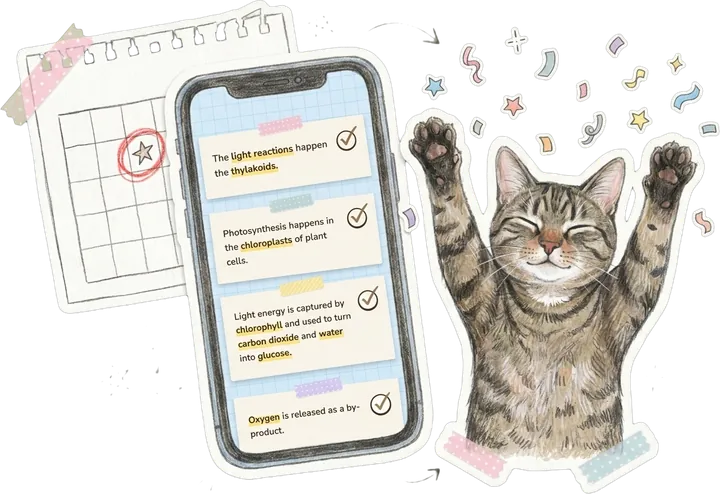
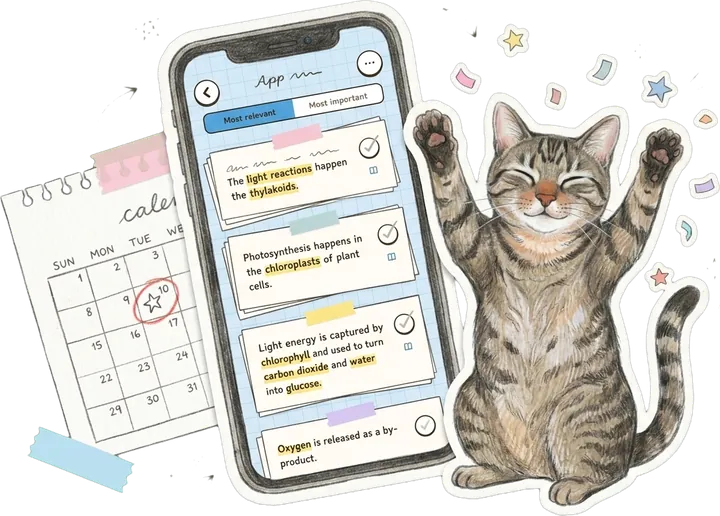
Study assistant: redraw guide pictures with Biggu's real chin and throat colors

diff --git a/apps/study-assistant/docs/progress/20261007.md b/apps/study-assistant/docs/progress/20261007.md
@@ -118,3 +118,9 @@ The two existing accounts will each see the cards once on their next launch.
 The user didn't want text-only cards. Each card now has a Gemini-drawn scrapbook collage: a hand-drawn phone showing that step's real screen (drawn from mock-build screenshots), with washi tape, doodles, and Biggu. The text sits on a crooked lined-paper scrap with a numbered sticker and highlighted key words. The first drafts had a girl as the student, but she looked different in every image because there was no reference for her. At the user's suggestion, Biggu is the student now: he holds the phone, recites to it and taps Hint. I generated two or three drafts per card and picked the ones where the right button is tapped and there's only one phone. Script: `art/guide.sh` (+ `guide_process.py` for the green-screen cutout); the screenshots it needs aren't committed. The pictures add about 430 KB in total. On short phones the picture shrinks so the buttons stay on screen. Checked at 360×640, 375×667 and 390×844 with no errors; build and tests pass.
 
 Side note for future headless checks: Chromium here needs `FONTCONFIG_FILE` pointing at a fonts.conf, or it hard-crashes on pages with certain text.
+
+## 12:40 — Biggu's chin and throat fixed in the guide pictures
+
+The user noticed the drawings gave Biggu a big white bib. In real life he has a white chin with a light peachy-orange tint just below it on the throat. The style reference (`art/style-ref.png`) has the white bib, and the prompt also said "white chin and throat". `art/guide.sh` now describes the throat correctly and adds the user's new photo (`art/biggu-photo-2.jpg`) as a reference. My first attempt called it "rusty cinnamon" and came out too orange; the user asked for lighter, so now it's "a very faint, light peachy-orange". All five pictures are regenerated. Two other prompt fixes along the way: Biggu sits on the left of the phone on the hint card, so his paw lands on Hint (it kept landing on Done), and "no extra or detached paws" (cram and results kept getting a third paw).
+
+Open: the Biggu mood stickers and heads used everywhere else (`art/generate.sh`, `style-ref.png`) still have the white bib. Redrawing them is a bigger change and hasn't been asked for yet.
